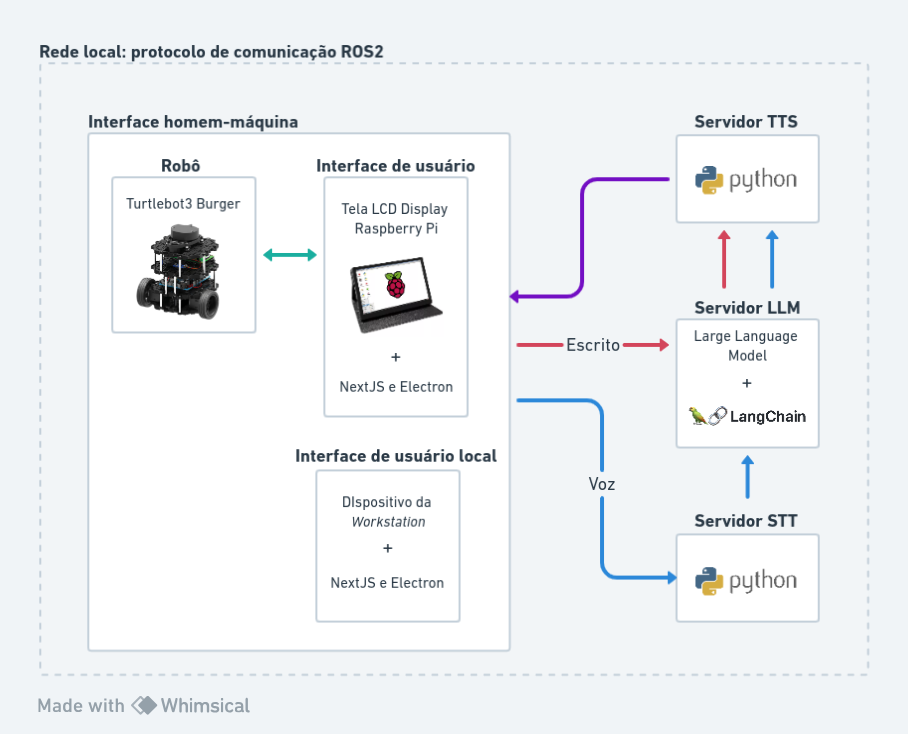
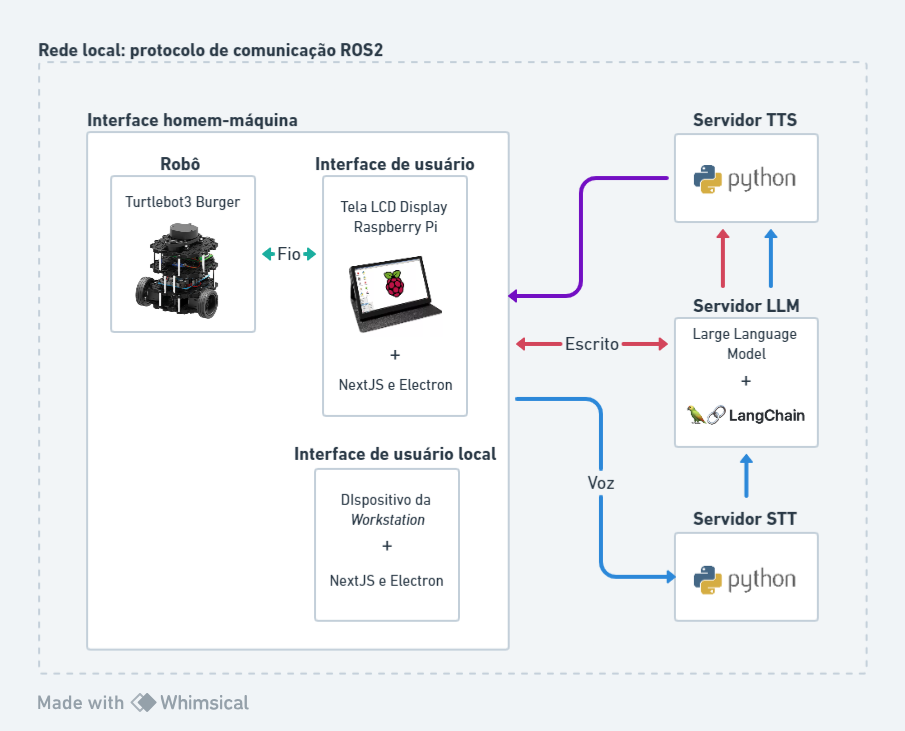
feat(docs): :sparkles: arquitetura finalizada

diff --git a/docs/docs/arquitetura-sistema/diagrama-de-blocos.md b/docs/docs/arquitetura-sistema/diagrama-de-blocos.md
@@ -1,20 +1,64 @@
-import Admonition from '@theme/Admonition';
+import Tabs from '@theme/Tabs';
+import TabItem from '@theme/TabItem';
 
 # Descrição da Arquitetura
 
-:::info
+### Diagrama de blocos
 
-Work in progress
+O diagrama de blocos é uma representação gráfica que esclarece as partes de um sistema, demonstrando como os vários elementos que constituem a solução se interconectam.
 
-:::
-![](/img/Arquitetura.png)
+<img src={require('/img/Arquitetura.png').default} width='100%'/>
 
-Todos os elementos do presente projeto devem ser sincronizados na mesma rede, para que consigam se comunicar. O cerne do projeto é um robô de serviço que visa auxiliar os técnicos das áreas da Ambev. Diante disso, o protocolo de comunicação escolhido foi o ROS2. O ROS (Robot Operating System) é um conjunto de bibliotecas de software e ferramentas que facilitam o desenvolvimento de aplicações robóticas.
+### Descrição dos elementos da arquitetura
 
-Interface homem-máquina - Onde todos os dispositivos físicos que interagem diretamente com uma pessoa estão dispostos. 
+| Elemento | Descrição |
+|---|---|
+| Rede Local | Para que todos os elementos da arquitetura consigam se comunicar todos devem ser sincronizados na mesma rede de internet. Diante disso, o protocolo de comunicação escolhido foi o ROS2. O ROS (Robot Operating System) é um conjunto de bibliotecas de software e ferramentas que facilitam o desenvolvimento de aplicações robóticas.  |
+| Interface homem-máquina | A interface homem-máquina representa os pontos de conexão entre o usuário e a máquina. Para a criação desta interface, foram considerados dois tipos de canais de comunicação. Um deles é através de uma tela LCD incorporada no robô utilizado, enquanto o outro se direciona a uma máquina local que pode ser utilizada em conjunto com a tela incorporada. |
+| Servidor STT |O servidor STT, que representa "Speech-to-Text" ou "Conversão de Fala para Texto", é um sistema de software capaz de transformar a expressão vocal humana em texto escrito. Os dados de áudio são submetidos a esse servidor com o propósito de serem traduzidos em formato textual. |
+| Servidor TTS | O servidor TTS, que corresponde a "Text-to-Speech" ou "Conversão de Texto em Fala", desempenha a função de transformar texto em dados de áudio. Esse sistema capacita o robô a fornecer respostas no formato de fala. |
+| Servidor LLM | O servidor LLM, uma abreviação para "Large Language Model" (Modelo de Linguagem Grande), é um tipo de modelo de linguagem que consiste em uma rede neural com um grande número de parâmetros. Ele capacita o sistema a interpretar o conteúdo falado ou escrito pelo operador e gerar respostas com base em seu treinamento anterior. |
 
-Servidor TTS -
 
-Servidor LLM -
+## Fluxo de utilização da solução
 
-Servidor STT -
+
+
+<Tabs defaultValue="voz" values={[
+        {label: 'Utilizando input de voz', value: 'voz'},
+        {label: 'Utilizando input de texto', value: 'texto'}
+  ]}>
+
+<TabItem value="voz">
+
+1. O processo se inicia quando o operador se comunica com o robô, utilizando a voz como meio de interação. Para isso, o robô estará equipado com um microfone que possibilitará essa funcionalidade.
+
+2. Após a captação da informação vocal, o áudio é encaminhado para o servidor SST (Speech-to-Text), responsável por convertê-lo em texto. Esse fluxo é representado pelas setas azuis na imagem.
+
+3. Em seguida, o servidor STT envia o texto resultante para o servidor LLM, que interpreta a solicitação e fornece uma resposta correspondente.
+
+4. Ss respostas são transmitidas diretamente do LMM para o robô em formato escrito.
+
+5. Além disso, a resposta também é encaminhada do LLM para o servidor TTS, que transformará o texto em uma mensagem de áudio.
+
+5. Por fim, o áudio da resposta é transmitido à interface homem-máquina, que disponibilizará a resposta ao usuário, executa as tarefas solicitadas e esse fluxo pode ser representado pela seta roxa na imagem. 
+
+
+</TabItem>
+
+<TabItem value="texto">
+
+1. O processo se inicia quando o operador faz uma requisição por escrito na interface homem-máquina, seja através da interface do usuário local ou do painel LCD touch acoplado ao robô.
+
+2. Após o envio da requisição, ela é encaminhada para o servidor LLM, responsável por interpretar a solicitação e fornecer uma resposta correspondente. Esse fluxo é representado pelas setas vermelhas na imagem.
+
+3. Em seguida, a resposta do LLM é direcionada para o servidor TTS, que converte o texto em uma mensagem de áudio. O resultado obtido é encaminhado ao robô e está respresentada pela seta roxa. 
+
+4. Além disso, as respostas também são transmitidas diretamente do LMM para o robô em formato escrito.
+
+5. O robô, com base nas informações recebidas, executa as tarefas solicitadas e retorna os resultados.
+
+
+</TabItem>
+</Tabs>
+
